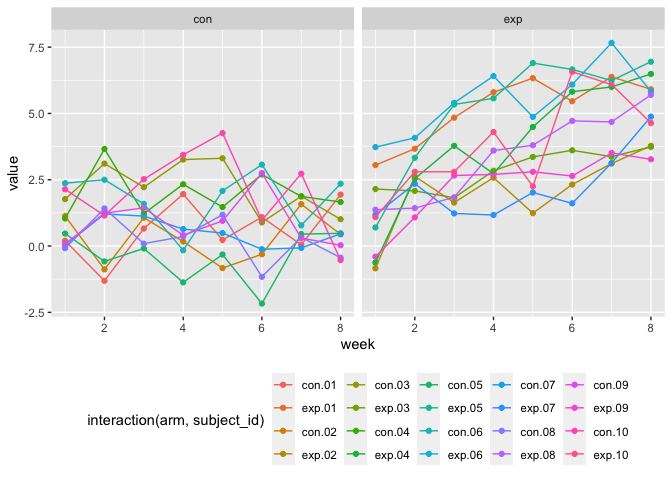
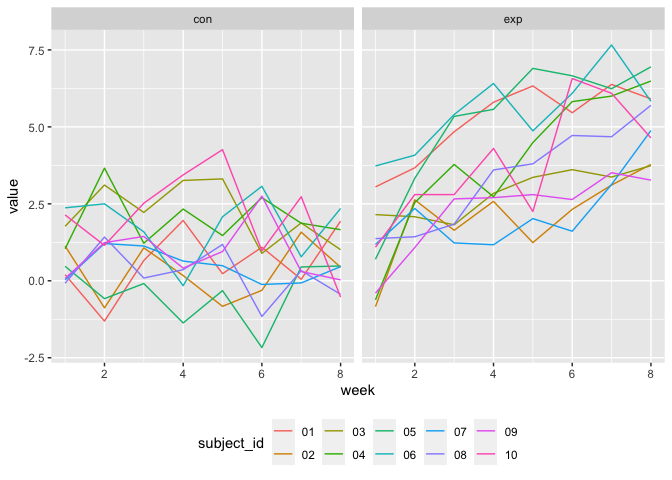
problem 2 graph formatting

diff --git a/p8105_hw5_wz2630.md b/p8105_hw5_wz2630.md
@@ -61,10 +61,9 @@ pivot_longer =
 
 spaghetti_plot = 
   pivot_longer |> 
-  ggplot(aes(week, value, color = interaction(arm, subject_id))) + 
-  geom_point() + 
+  ggplot(aes(week, value, color = subject_id)) + 
   geom_line() + 
-  facet_wrap(vars(arm)) + 
+  facet_wrap(~arm) + 
   theme(legend.position = "bottom")
 
 spaghetti_plot
@@ -80,3 +79,11 @@ throughout the 8 weeks as compared to the experimental arm. There seems
 to be an increasing trend in the experimental arm as time passes.
 
 ## Problem 3
+
+Simulation to explore power in a one-sample t-test
+
+``` r
+set.seed(123)
+
+#sim_t_test = function(n = 30, mu = 0, sigma = 5) 
+```
